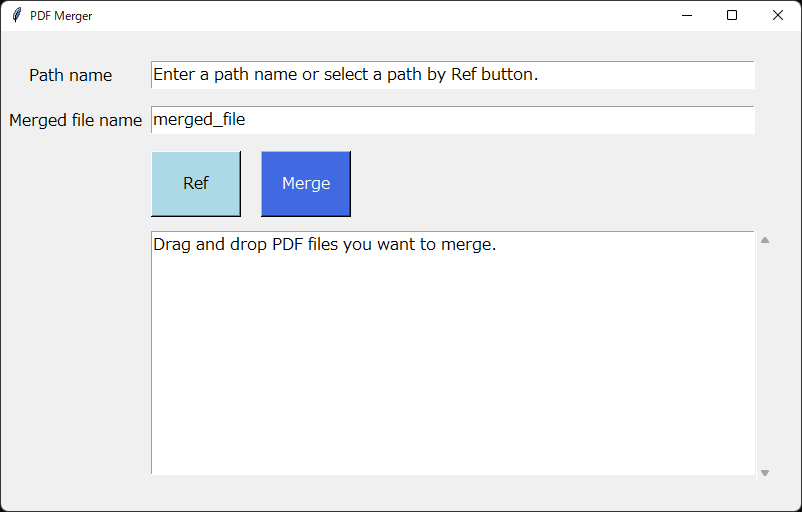
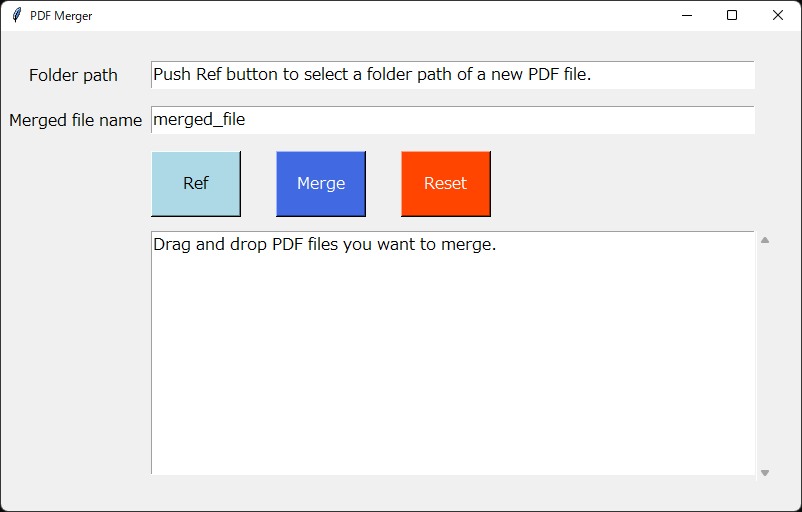
inital commit

diff --git a/pdf_merger.py b/pdf_merger.py
@@ -15,9 +15,9 @@ def readfolder():
 
 
 def merge():
-    savePath = textbox1.get()
+    global merger
 
-    if os.path.exists(savePath):
+    if os.path.exists(textbox1.get()):
         textbox3.delete(1.0, tkinter.END)
         textbox3.insert('1.0', 'Merge the below PDF files.\n\n')
         for k in range(len(filelist)):
@@ -32,18 +32,32 @@ def merge():
         textbox3.insert(tkinter.END, 'Drag and drop at least two PDF files you want to merge.\n\n')
         return
 
-    savedName = textbox2.get()
+    savePath = os.path.join(textbox1.get(), textbox2.get() + '.pdf')
 
     for k in range(len(filelist)):
         merger.append(filelist[k])
-    merger.write(os.path.join(savePath, savedName + '.pdf'))
+    if os.path.exists(savePath):
+        textbox3.insert(tkinter.END, '\nA file with the same name (' + textbox2.get() + '.pdf)' + ' exists.\n')
+        textbox3.insert(tkinter.END, 'Change to another name.')
+        return
+    merger.write(savePath)
     merger.close()
+    merger = PyPDF2.PdfFileMerger()
 
-    textbox3.insert(tkinter.END, '\n\n**************************\n\n')
-    textbox3.insert(tkinter.END, 'The merged file is saved as ' + savedName + '.pdf.')
+    textbox3.insert(tkinter.END, '************************************************\n')
+    textbox3.insert(tkinter.END, 'The merged file is saved as ' + textbox2.get() + '.pdf.')
+
+
+def reset():
+    global filelist
+    textbox3.delete(1.0, tkinter.END)
+    textbox3.insert('1.0', 'Drag and drop PDF files you want to merge.')
+    filelist = []
+    print(filelist)
 
 
 def drop(event):
+    global filelist
     if event.data:
         filename = event.data
         filename = filename.replace('\\', '/')
@@ -52,7 +66,7 @@ def drop(event):
         filelist.append(filename)
         print(filelist)
         textbox3.delete(1.0, tkinter.END)
-        textbox3.insert('1.0', 'Merge the below PDF files.\n\n')
+        textbox3.insert(tkinter.END, 'Merge the below PDF files.\n\n')
         for k in range(len(filelist)):
             textbox3.insert(tkinter.END, filelist[k] + '\n')
     return event.action
@@ -69,15 +83,19 @@ button.place(x=150, y=120)
 
 # Merge button
 button = tkinter.Button(root, text="Merge", command=merge, width=8, height=2, font=(u'Meiryo', 12), bg='#4169e1', fg='#ffffff')
-button.place(x=260, y=120)
+button.place(x=275, y=120)
+
+# Reset button
+button = tkinter.Button(root, text="Reset", command=reset, width=8, height=2, font=(u'Meiryo', 12), bg='#FF4500', fg='#ffffff')
+button.place(x=400, y=120)
 
 # Label1 Path
-lbl = tkinter.Label(text='Path name', font=(u'Meiryo', 12))
+lbl = tkinter.Label(text='Folder path', font=(u'Meiryo', 12))
 lbl.place(x=25, y=30)
 
 # Textbox1 Path
 textbox1 = tkinter.Entry(width=60, font=(u'Meiryo', 12))
-textbox1.insert(tkinter.END, "Enter a path name or select a path by Ref button.")
+textbox1.insert(tkinter.END, "Push Ref button to select a folder path of a new PDF file.")
 textbox1.place(x=150, y=30)
 
 # Label2 merged file name
@@ -101,10 +119,8 @@ root.dnd_bind('<<Drop>>', drop)
 scroll_Y['command'] = textbox3.yview
 scroll_Y.place(x=755, y=200, height=250)
 
+folderPath = ''
 filelist = []
-
 merger = PyPDF2.PdfFileMerger()
-user = os.getlogin()
-username = str(user)
 
 root.mainloop()

diff --git a/README.md b/README.md
@@ -18,7 +18,8 @@ pyinstaller pdf_merger.py --onefile --noconsole --collect-all tkinterdnd2
 
 <img src="figure\PDF_Merger.png" alt="spyder_disp" style="zoom: 66%;" />
 
-1. Enter a path name of a new merged file or select a path by pushing "Ref" button.
+1. Push "Ref" button to select a folder path of a new PDF file.
 1. Drag and drop at least two PDF files you want to merge.
 1. Push "Merge" button.
 1. A new merged file will be created in the folder path you selected.
+1. If "Reset" button is pushed, the dropped PDF files to merge will be cleared.
